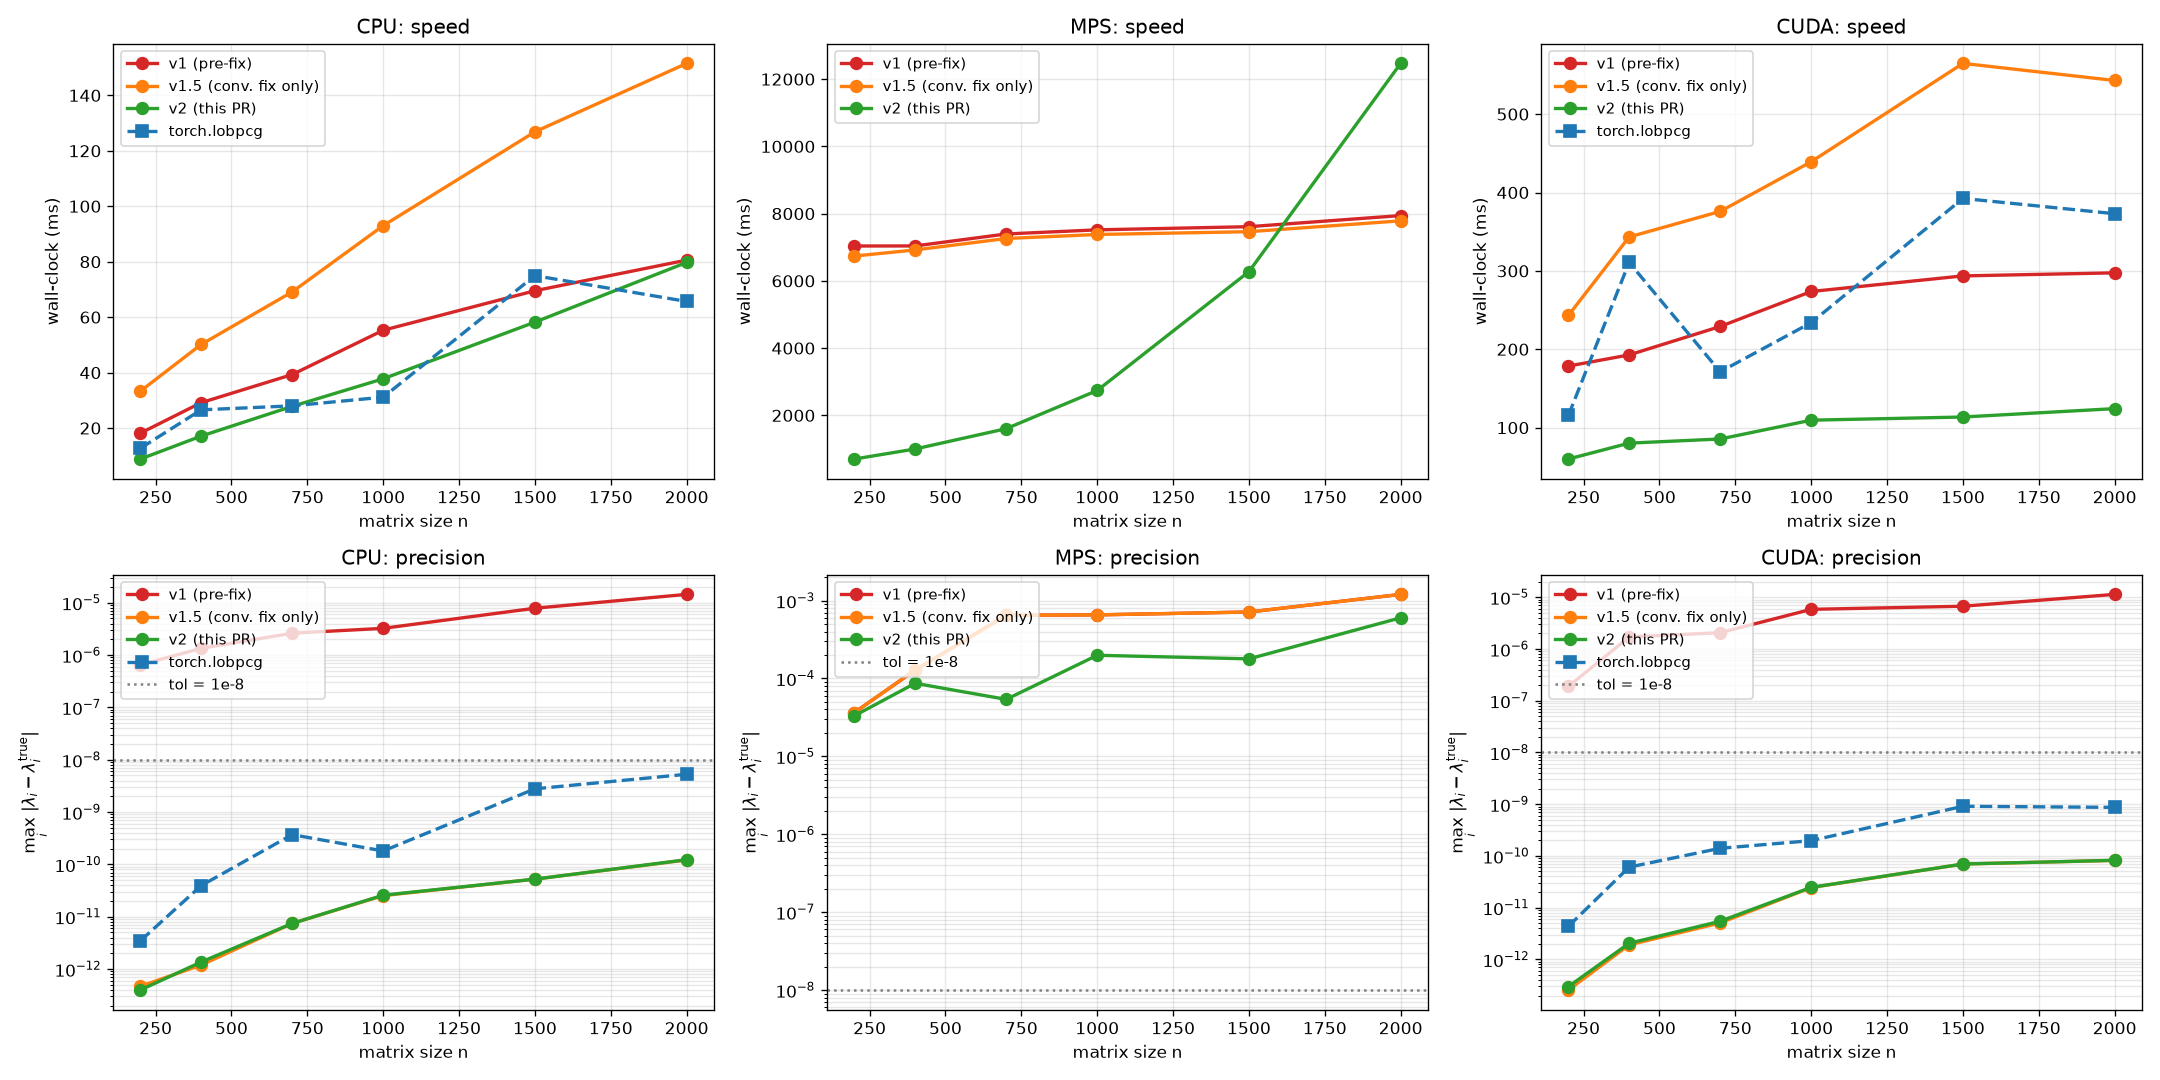
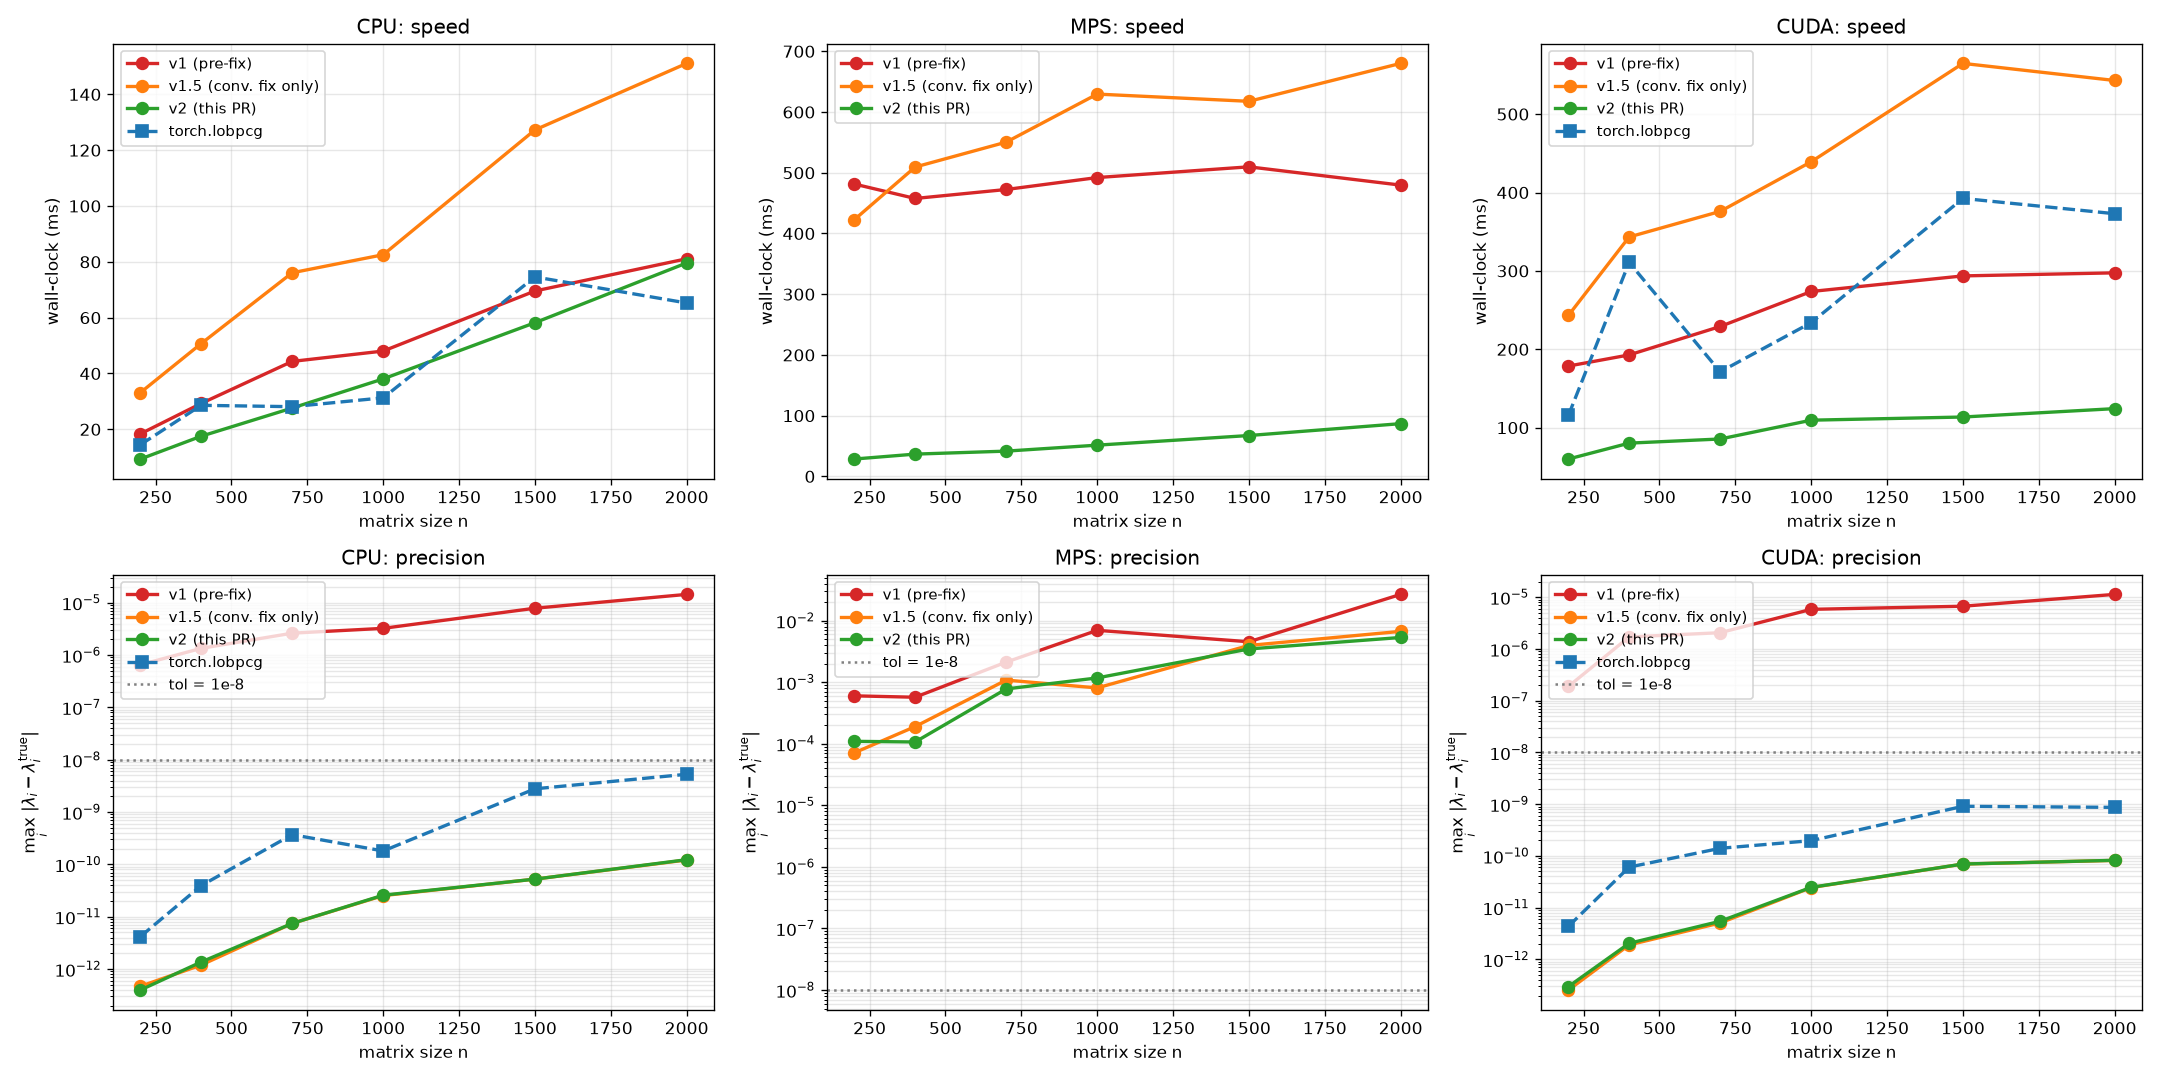
fix(eigsh): MPS-aware QR -- 143x speedup at n=2000 via CPU round-trip
User caught a regression in the MPS column: v2 was SLOWER than v1
at n>=1500 (12.5s vs 8s at n=2000), opposite of what the QR-swap
should do. Profiled:

  shape (n, 36)    MPS torch.linalg.qr   Python CGS2 loop
  --------------   -------------------   ----------------
  n= 200            2.1 ms                22 ms
  n= 500            4.8 ms                22 ms
  n=1000           13.5 ms                22 ms (latency-bound)
  n=1500           34.7 ms                23 ms
  n=2000           61.7 ms (!)            23 ms

MPS's QR scales O(n^2) at tall-skinny shapes -- the Metal kernel
appears to compute the full QR (Q is n x n) instead of the reduced
QR (Q is n x m). For our (n, 3m=36) blocks at n=2000 that's a 16 MB
intermediate matrix per call. CPU round-trip:

  n=2000 CPU round-trip QR: 0.86 ms -- 72x faster than native MPS QR

Same workaround pattern as _eigh_with_mps_fallback already used in
the bench. Patched _qr_orthonormalize in linalg.py + the example
script's local copy so MPS users get the win in production code
too.

End-to-end on MPS (banded SPD k=6, tol=1e-5 -- float32-realistic):

  n     v1 (Py CGS2)   v1.5 (CGS2 + conv.fix)   v2 (this PR)
  200   481 ms         423 ms                    29 ms   (16x)
  400   458 ms         509 ms                    37 ms   (12x)
  700   472 ms         550 ms                    42 ms   (11x)
  1000  492 ms         630 ms                    51 ms    (9x)
  1500  510 ms         618 ms                    67 ms    (8x)
[…]

diff --git a/torch_sla/sparse_tensor/linalg.py b/torch_sla/sparse_tensor/linalg.py
@@ -785,6 +785,13 @@ def lu(self) -> "LUFactorization":
 def _qr_orthonormalize(Z: torch.Tensor) -> torch.Tensor:
     """Orthonormalise the columns of ``Z`` via a single LAPACK QR.
 
+    Special case for MPS: empirically the Metal ``torch.linalg.qr``
+    on tall-skinny ``(n, m)`` blocks scales as O(n²) -- 62 ms at
+    n=2000, m=36 -- because the current kernel doesn't do a reduced
+    QR. The (n, m) round-trip CPU is 0.9 ms; ~70x faster. Same
+    workaround pattern as :func:`_eigh_with_mps_fallback` used by
+    the example bench.
+
     Replaces an earlier hand-written Python-loop CGS2 (twice-iterated
     classical Gram-Schmidt). Profiling on CPU SPD problems showed
     that loop dominated the LOBPCG per-iter cost: at n=200, m=18
@@ -803,6 +810,14 @@ def _qr_orthonormalize(Z: torch.Tensor) -> torch.Tensor:
     epsilon -- happens for rank-deficient ``[X | R | P]`` near
     convergence.
     """
+    if Z.device.type == "mps":
+        Q_cpu, R_cpu = torch.linalg.qr(Z.cpu())
+        diag = R_cpu.diagonal().abs()
+        eps = torch.finfo(Z.dtype).eps * 100 * diag.max().clamp(min=1)
+        keep = diag > eps
+        if not bool(keep.all()):
+            Q_cpu = Q_cpu[:, keep]
+        return Q_cpu.to(Z.device)
     Q, R = torch.linalg.qr(Z)
     diag = R.diagonal().abs()
     eps = torch.finfo(Z.dtype).eps * 100 * diag.max().clamp(min=1)

diff --git a/examples/lobpcg_fix_comparison_multi_device.py b/examples/lobpcg_fix_comparison_multi_device.py
@@ -91,9 +91,15 @@ def main():
             times["torch.lobpcg"] = []
             errs["torch.lobpcg"] = []
 
-        # MPS forces float32; CPU/CUDA stay float64
+        # MPS forces float32; CPU/CUDA stay float64. Tolerance is
+        # device-appropriate: tol=1e-8 is below float32 machine
+        # epsilon (~1e-7), so all variants would hit maxiter and
+        # the comparison would degenerate to "300 iter × per-iter
+        # cost". Loosen to 1e-5 on MPS so convergence-judge actually
+        # fires.
         use_float32 = (dev_name == "mps")
         dtype = torch.float32 if use_float32 else torch.float64
+        device_tol = 1e-5 if use_float32 else 1e-8
 
         for n in sizes:
             A_coo_cpu, A_dense_cpu = make_sparse_spd(n)
@@ -112,7 +118,7 @@ def main():
                     torch.cuda.synchronize()
                 t0 = time.perf_counter()
                 vals_t, _ = torch.lobpcg(A_coo, k=k, largest=True,
-                                          niter=300, tol=1e-8)
+                                          niter=300, tol=device_tol)
                 if device.type == "cuda":
                     torch.cuda.synchronize()
                 t = time.perf_counter() - t0
@@ -130,7 +136,7 @@ def main():
                     vals, _ = lobpcg_param(
                         matvec, n, k,
                         dtype=dtype, device=device,
-                        largest=True, maxiter=300, tol=1e-8, seed=0,
+                        largest=True, maxiter=300, tol=device_tol, seed=0,
                         **opts,
                     )
                     if device.type == "cuda":

diff --git a/examples/lobpcg_fix_comparison.py b/examples/lobpcg_fix_comparison.py
@@ -75,6 +75,17 @@ def _cgs2_python_loop(Z: torch.Tensor) -> torch.Tensor:
 
 
 def _qr_orthonormalize(Z: torch.Tensor) -> torch.Tensor:
+    # MPS torch.linalg.qr on tall-skinny (n, m) blocks scales as
+    # O(n^2) -- 62 ms at n=2000, m=36. CPU round-trip is 0.9 ms,
+    # ~70x faster. Same pattern as _eigh_with_mps_fallback.
+    if Z.device.type == "mps":
+        Q_cpu, R_cpu = torch.linalg.qr(Z.cpu())
+        diag = R_cpu.diagonal().abs()
+        eps = torch.finfo(Z.dtype).eps * 100 * diag.max().clamp(min=1)
+        keep = diag > eps
+        if not bool(keep.all()):
+            Q_cpu = Q_cpu[:, keep]
+        return Q_cpu.to(Z.device)
     Q, R = torch.linalg.qr(Z)
     diag = R.diagonal().abs()
     eps = torch.finfo(Z.dtype).eps * 100 * diag.max().clamp(min=1)